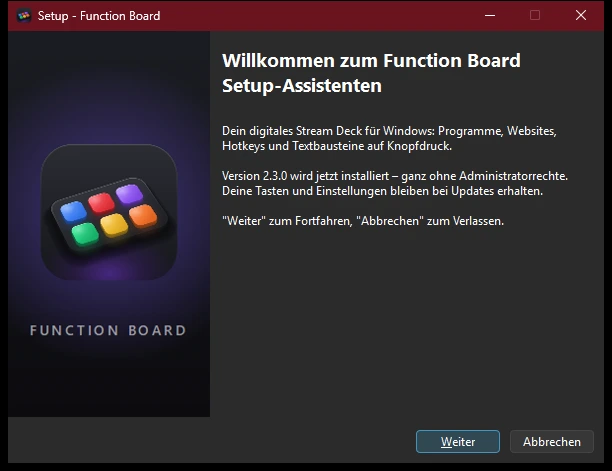
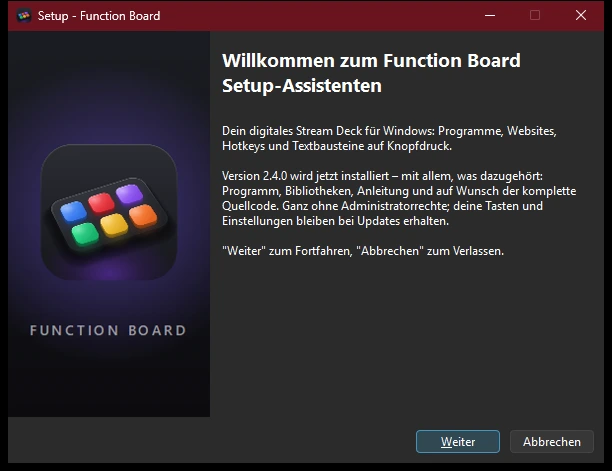
Seite zeigt den neuen 2.4-Installer: Setup-Bilder, Inhalt des Setups, Ordner-Übersicht

Changed region(s): [[0.3415, 0.3567, 0.9314, 0.5648]]

diff --git a/index.html b/index.html
@@ -410,6 +410,41 @@ kbd {
 .alt-link:hover { color: var(--text); border-color: rgba(255, 255, 255, .6); }
 .hash-label { margin-top: 10px; font: 500 12px/1 var(--mono); color: var(--faint); }
 .installer-shot { margin: 34px auto 0; max-width: 640px; text-align: center; }
+.setup-gallery { display: grid; grid-template-columns: repeat(3, 1fr); gap: 18px; margin-top: 34px; }
+.setup-gallery figure { margin: 0; }
+.setup-gallery img { width: 100%; border-radius: 10px; border: 1px solid var(--line2);
+  box-shadow: 0 30px 60px -24px rgba(0, 0, 0, .8), 0 0 50px -14px rgba(124, 58, 237, .35); transition: transform .5s var(--spring); }
+.setup-gallery figure:hover img { transform: translateY(-4px) scale(1.015); }
+.setup-gallery figcaption { margin-top: 12px; color: var(--muted); font-size: 14px; display: flex; gap: 10px; align-items: baseline; }
+.setup-gallery figcaption b { flex: none; width: 24px; height: 24px; border-radius: 50%; display: grid; place-items: center;
+  font: 700 12px/1 var(--mono); color: var(--violet2); background: rgba(139, 92, 246, .14); border: 1px solid rgba(139, 92, 246, .35); }
+.bundle {
+  display: grid; grid-template-columns: minmax(0, 1fr) minmax(0, 1fr); gap: 44px; align-items: center;
+  margin-top: 64px; padding: 48px; border-radius: 30px; border: 1px solid var(--line);
+  background:
+    radial-gradient(70% 90% at 0% 0%, rgba(139, 92, 246, .13), transparent 60%),
+    radial-gradient(60% 80% at 100% 100%, rgba(24, 189, 112, .08), transparent 60%),
+    rgba(255, 255, 255, .015);
+}
+.bundle h2 { font-size: clamp(30px, 3.4vw, 46px); }
+.bundle-list { list-style: none; margin: 24px 0 0; padding: 0; display: grid; gap: 14px; }
+.bundle-list li { display: grid; grid-template-columns: 14px 1fr; gap: 14px; color: var(--muted); font-size: 15px; }
+.bundle-list b { display: block; color: var(--text); font-weight: 600; margin-bottom: 2px; }
+.bundle-list .dot { width: 10px; height: 10px; margin-top: 7px; border-radius: 50%; background: var(--c);
+  box-shadow: 0 0 12px var(--c); }
+.bundle-list .opt { font: 600 11px/1 var(--mono); color: var(--green); margin-left: 6px; letter-spacing: .04em; }
+.tree-wrap { min-width: 0; }
+.tree-title { font: 600 12px/1 var(--mono); letter-spacing: .16em; text-transform: uppercase; color: var(--faint); margin-bottom: 12px; }
+.tree {
+  margin: 0; padding: 22px 24px; border-radius: 18px; overflow-x: auto;
+  background: #0b0b0e; border: 1px solid var(--line2); box-shadow: 0 30px 60px -30px rgba(0, 0, 0, .8);
+  font: 13.5px/1.75 var(--mono); color: #c9cbd3;
+}
+.tree .t-dir { color: var(--yellow); }
+.tree .t-exe { color: var(--violet2); font-weight: 700; }
+.tree .t-c { color: var(--faint); }
+.tree-note { margin: 14px 0 0; font-size: 14px; color: var(--faint); }
+.tree-note b { color: var(--muted); }
 .installer-shot img { width: 100%; border-radius: 12px; border: 1px solid var(--line2);
   box-shadow: 0 40px 80px -24px rgba(0, 0, 0, .8), 0 0 60px -10px rgba(124, 58, 237, .35); }
 .installer-shot figcaption { margin-top: 14px; color: var(--faint); font-size: 14px; }
@@ -476,7 +511,9 @@ footer a:hover { color: var(--text); }
   .hero .wrap { grid-template-columns: 1fr; }
   .stage { padding-top: 10px; }
   .grid-4 { grid-template-columns: repeat(2, 1fr); }
-  .duo, .faq-layout, .setup { grid-template-columns: 1fr; }
+  .duo, .faq-layout, .setup, .bundle { grid-template-columns: 1fr; }
+  .bundle { padding: 34px 24px; }
+  .setup-gallery { grid-template-columns: 1fr 1fr; }
   .setup { padding: 34px 24px; }
   .faq-layout .section-head { position: static; }
   .sb-layout .list { grid-template-columns: repeat(2, 1fr); }
@@ -487,7 +524,8 @@ footer a:hover { color: var(--text); }
 @media (max-width: 760px) {
   section { padding: 80px 0; }
   .hero { padding-top: 36px; }
-  .grid-3, .grid-4, .downloads, .sb-layout .list { grid-template-columns: 1fr; }
+  .grid-3, .grid-4, .downloads, .sb-layout .list, .setup-gallery { grid-template-columns: 1fr; }
+  .tree { font-size: 12px; padding: 16px; }
   .card-wide { grid-column: auto; grid-template-columns: 1fr; }
   .card-wide img { width: 160px; margin: 0 auto -24px; }
   .dl { padding: 26px; }
@@ -873,6 +911,43 @@ footer a:hover { color: var(--text); }
       </div>
       <p class="dl-note reveal">Portabel: Lege die .exe in einen eigenen Ordner, z. B. <b>Dokumente\Function Board</b> – dort speichert sie auch
         ihre Einstellungen. Installiert liegen sie in <b>%APPDATA%</b> und bleiben bei Updates erhalten.</p>
+
+      <div class="bundle reveal" id="was-installiert-wird">
+        <div>
+          <span class="eyebrow"><span class="new-tag">NEU IN 2.4</span></span>
+          <h2>Das Setup bringt alles mit.</h2>
+          <p class="sub" style="font-size:17px">Wie bei einem großen Spiel kommt nicht nur die App, sondern alles, was dazugehört –
+            fertig eingerichtet, ohne dass du irgendetwas nachinstallieren musst.</p>
+          <ul class="bundle-list">
+            <li><span class="dot" style="--c:var(--violet)"></span><div><b>Das Programm mit allen Bibliotheken</b>
+              Function Board mit Python-Laufzeit, Qt-Oberfläche und allem, was es braucht – 177 Dateien, startet in rund einer Sekunde.</div></li>
+            <li><span class="dot" style="--c:var(--blue)"></span><div><b>Die Anleitung</b>
+              README mit allen Funktionen und Tastenkürzeln – auch im Startmenü unter „Function Board – Anleitung“.</div></li>
+            <li><span class="dot" style="--c:var(--green)"></span><div><b>Der komplette Quellcode <span class="opt">bei „Vollständig“</span></b>
+              main.py, start.bat, alle Module, Icon, Tests und die Build-Werkzeuge – genau wie im Projektordner.</div></li>
+            <li><span class="dot" style="--c:var(--yellow)"></span><div><b>Startmenü, Desktop-Symbol, Autostart</b>
+              Desktop-Symbol und Start mit Windows wählst du im Setup selbst aus.</div></li>
+            <li><span class="dot" style="--c:var(--orange)"></span><div><b>Sauber deinstallierbar</b>
+              Eintrag unter Einstellungen → Apps; deine Tasten bleiben auf Wunsch erhalten.</div></li>
+          </ul>
+        </div>
+        <div class="tree-wrap">
+          <div class="tree-title">So sieht dein Programmordner danach aus</div>
+<pre class="tree"><span class="t-dir">Function Board\</span>
+├── <span class="t-exe">FunctionBoard.exe</span>      <span class="t-c">das Programm</span>
+├── <span class="t-dir">_internal\</span>             <span class="t-c">Python, Qt, Bibliotheken</span>
+├── README.md              <span class="t-c">die Anleitung</span>
+├── unins000.exe           <span class="t-c">Deinstallation</span>
+│
+│   <span class="t-c">bei „Vollständig“ zusätzlich:</span>
+├── main.py · start.bat · requirements.txt
+├── <span class="t-dir">softdeck\</span>              <span class="t-c">der Quellcode</span>
+├── <span class="t-dir">assets\</span> · <span class="t-dir">tests\</span>
+└── <span class="t-dir">installer\</span>             <span class="t-c">Setup-Skripte</span></pre>
+          <p class="tree-note">Deine Tasten und Einstellungen liegen getrennt davon in <b>%APPDATA%\FunctionBoard</b> –
+            so bleiben sie bei jedem Update erhalten.</p>
+        </div>
+      </div>
     </div>
   </section>
 
@@ -907,10 +982,20 @@ footer a:hover { color: var(--text); }
             Neue Versionen meldet das Function Board danach selbst – ein Klick, und es ist aktuell.</p>
         </article>
       </div>
-      <figure class="installer-shot reveal">
-        <img src="assets/fb-installer.webp" width="612" height="471" alt="Das Setup des Function Board: Willkommensseite im dunklen Design mit Logo" loading="lazy" decoding="async">
-        <figcaption>So sieht das Setup aus – im gleichen dunklen Look wie die Apps.</figcaption>
-      </figure>
+      <div class="setup-gallery">
+        <figure class="reveal">
+          <img src="assets/fb-installer.webp" width="612" height="471" alt="Setup, Schritt 1: Willkommensseite mit Logo im dunklen Design" loading="lazy" decoding="async">
+          <figcaption><b>1</b> Willkommen – alles auf einen Blick</figcaption>
+        </figure>
+        <figure class="reveal" style="--d:.06s">
+          <img src="assets/fb-installer-components.webp" width="612" height="471" alt="Setup, Komponenten: Vollständig mit Programm, Anleitung und Quellcode oder nur das Programm" loading="lazy" decoding="async">
+          <figcaption><b>2</b> Wählen, was mitkommt – „Vollständig“ oder nur das Programm</figcaption>
+        </figure>
+        <figure class="reveal" style="--d:.12s">
+          <img src="assets/fb-installer-tasks.webp" width="612" height="471" alt="Setup, Zusatzaufgaben: Desktop-Symbol erstellen und mit Windows starten" loading="lazy" decoding="async">
+          <figcaption><b>3</b> Desktop-Symbol und Autostart ankreuzen – fertig</figcaption>
+        </figure>
+      </div>
     </div>
   </section>
 
@@ -936,6 +1021,14 @@ footer a:hover { color: var(--text); }
           <div class="answer"><p>Windows SmartScreen warnt bei neuen Programmen, die noch nicht digital signiert sind. Über
             „Weitere Informationen“ → „Trotzdem ausführen“ startest du das Setup. Wer sichergehen will, vergleicht die
             SHA-256-Prüfsumme im Download-Bereich, z. B. mit <code>Get-FileHash .\FunctionBoard-Setup.exe</code> in PowerShell.</p></div>
+        </details>
+        <details class="reveal">
+          <summary>Was genau wird installiert?</summary>
+          <div class="answer"><p>Das Function Board als vollständiger Programmordner (Programm, Python-Laufzeit, Qt und alle
+            Bibliotheken), die Anleitung und – bei „Vollständig“ – der komplette Quellcode mit Tests und Build-Werkzeugen.
+            Nicht dabei sind persönliche Dinge: Deine Tasten legt die App beim ersten Start selbst in
+            <code>%APPDATA%\FunctionBoard</code> an. Wie der Ordner danach aussieht, siehst du
+            <a href="#was-installiert-wird">im Download-Bereich</a>.</p></div>
         </details>
         <details class="reveal">
           <summary>Kann ich aussuchen, wo die Datei gespeichert wird?</summary>
